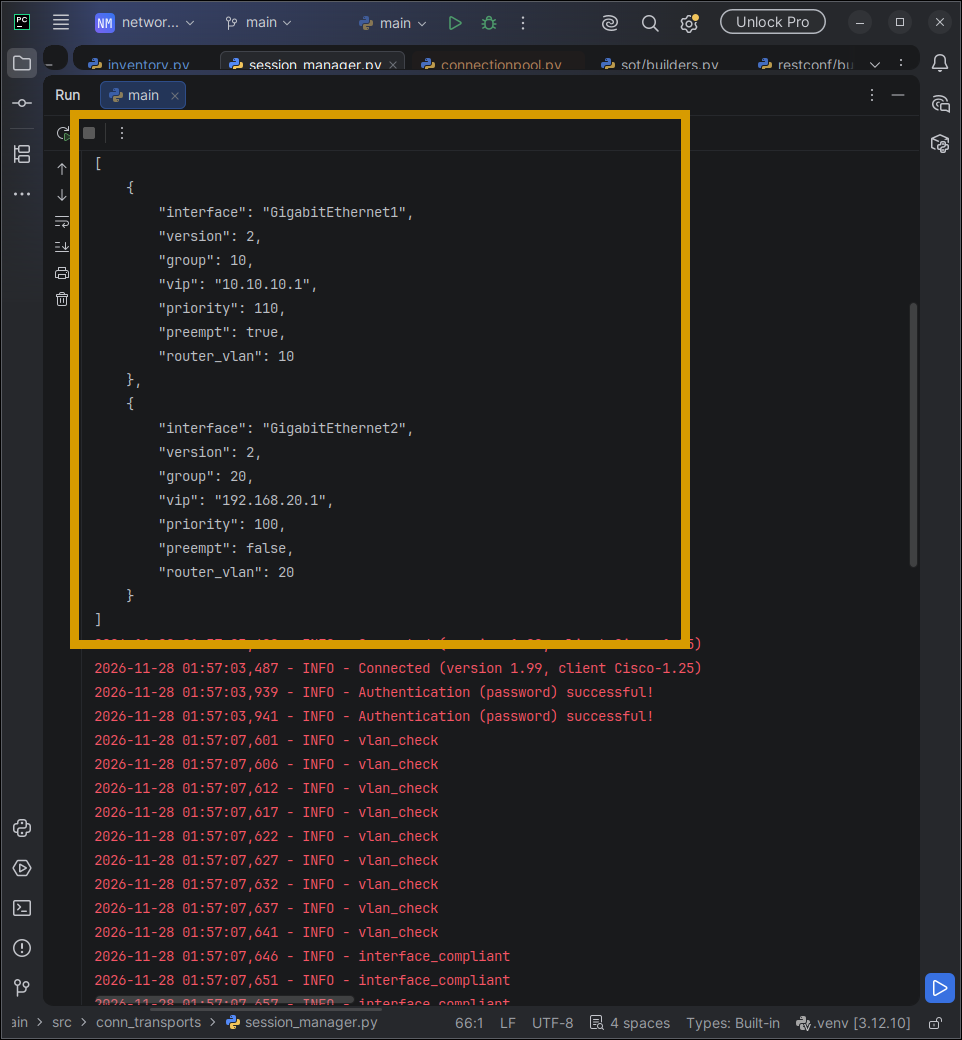
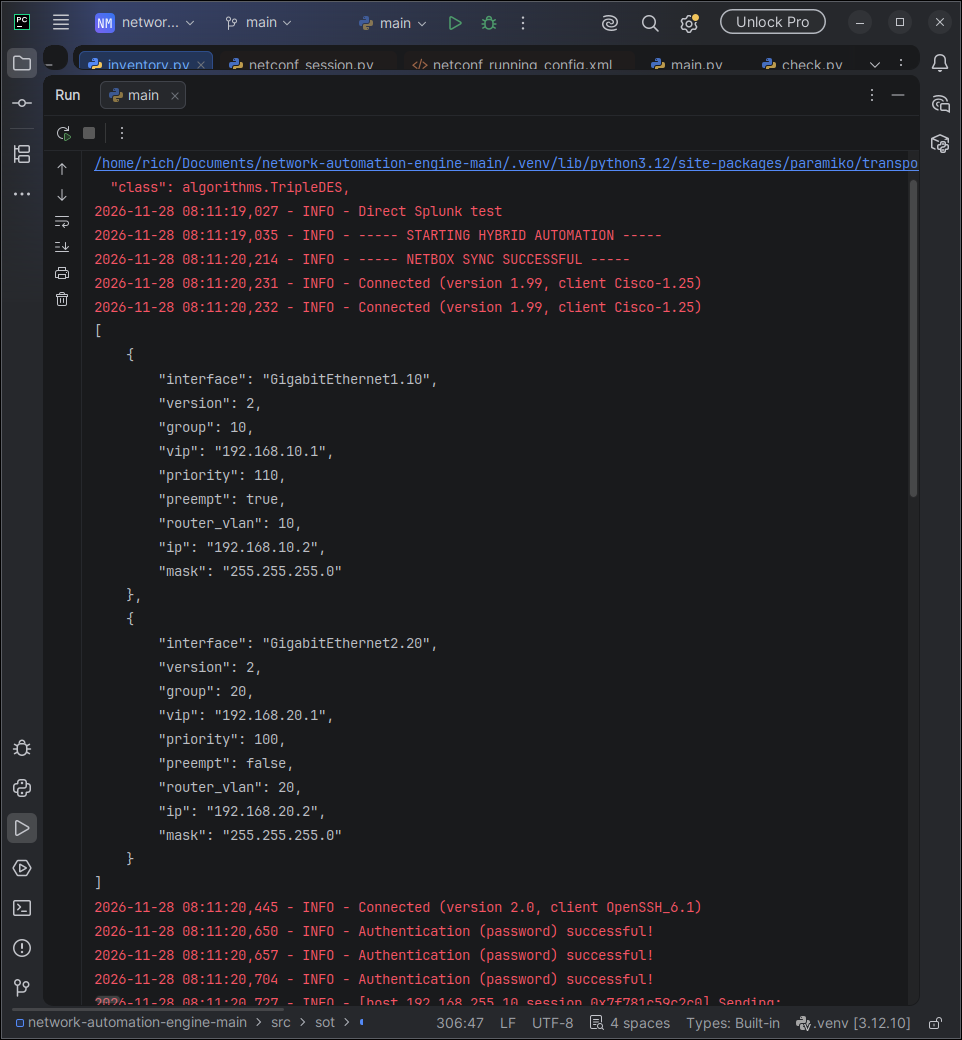
“README”

diff --git a/src/sot/inventory.py b/src/sot/inventory.py
@@ -307,6 +307,9 @@ def get_netbox():
                         "mask": h.get("mask", "")
                     }
                 )
+        if hsrp_context:
+            h = config_data[host_ip]["hsrp"]
+            print(json.dumps(h, indent=4))
 
         if nat_context:
             nat["dynamic"].extend(nat_context.get("dynamic", []))

diff --git a/Feature Execution Walkthrough/hsrp-netconf/README.md b/Feature Execution Walkthrough/hsrp-netconf/README.md
@@ -270,7 +270,7 @@ def build_hsrp(netconf_state):
 
 ### 3. Live Router State vs. Injected HSRP Drift
 
-To test model-driven extraction, out-of-band configuration drift was present on `EDGE-1`. The relevant slice from the live paged `show running-config` (shot 4):
+To test model-driven extraction, out-of-band configuration drift was present on `EDGE-1`. The relevant section from the live paged `show running-config` (shot 4):
 
 ![Cisco Console HSRP Drift](screenshots/print-build-hsrp-test-configuration.png)
 
@@ -644,7 +644,7 @@ def compliance_hsrp(sesh, device_ip, context, device_state, device_result, log, 
 To validate both diff engines, multiple drift conditions were applied on `EDGE-1`.
 
 #### A. Multi-Attribute Drift Injection
-The router carried an **unauthorized** standby group (`standby 1` on physical `GigabitEthernet1`), an **incomplete** standby definition on subinterface `GigabitEthernet1.10` (wrong VIP `192.168.10.3`, default priority, no `preempt`, no `standby 10 version` → v1), and a **completely missing** standby group on `GigabitEthernet2.20`. The relevant slice from the live paged `show running-config` (shot 3):
+The router carried an **unauthorized** standby group (`standby 1` on physical `GigabitEthernet1`), an **incomplete** standby definition on subinterface `GigabitEthernet1.10` (wrong VIP `192.168.10.3`, default priority, no `preempt`, no `standby 10 version` → v1), and a **completely missing** standby group on `GigabitEthernet2.20`. The relevant section from the live paged `show running-config` (shot 3):
 
 ![Cisco Console HSRP Drift Injected](screenshots/check-intentional-wrong-configurations.png)
 
